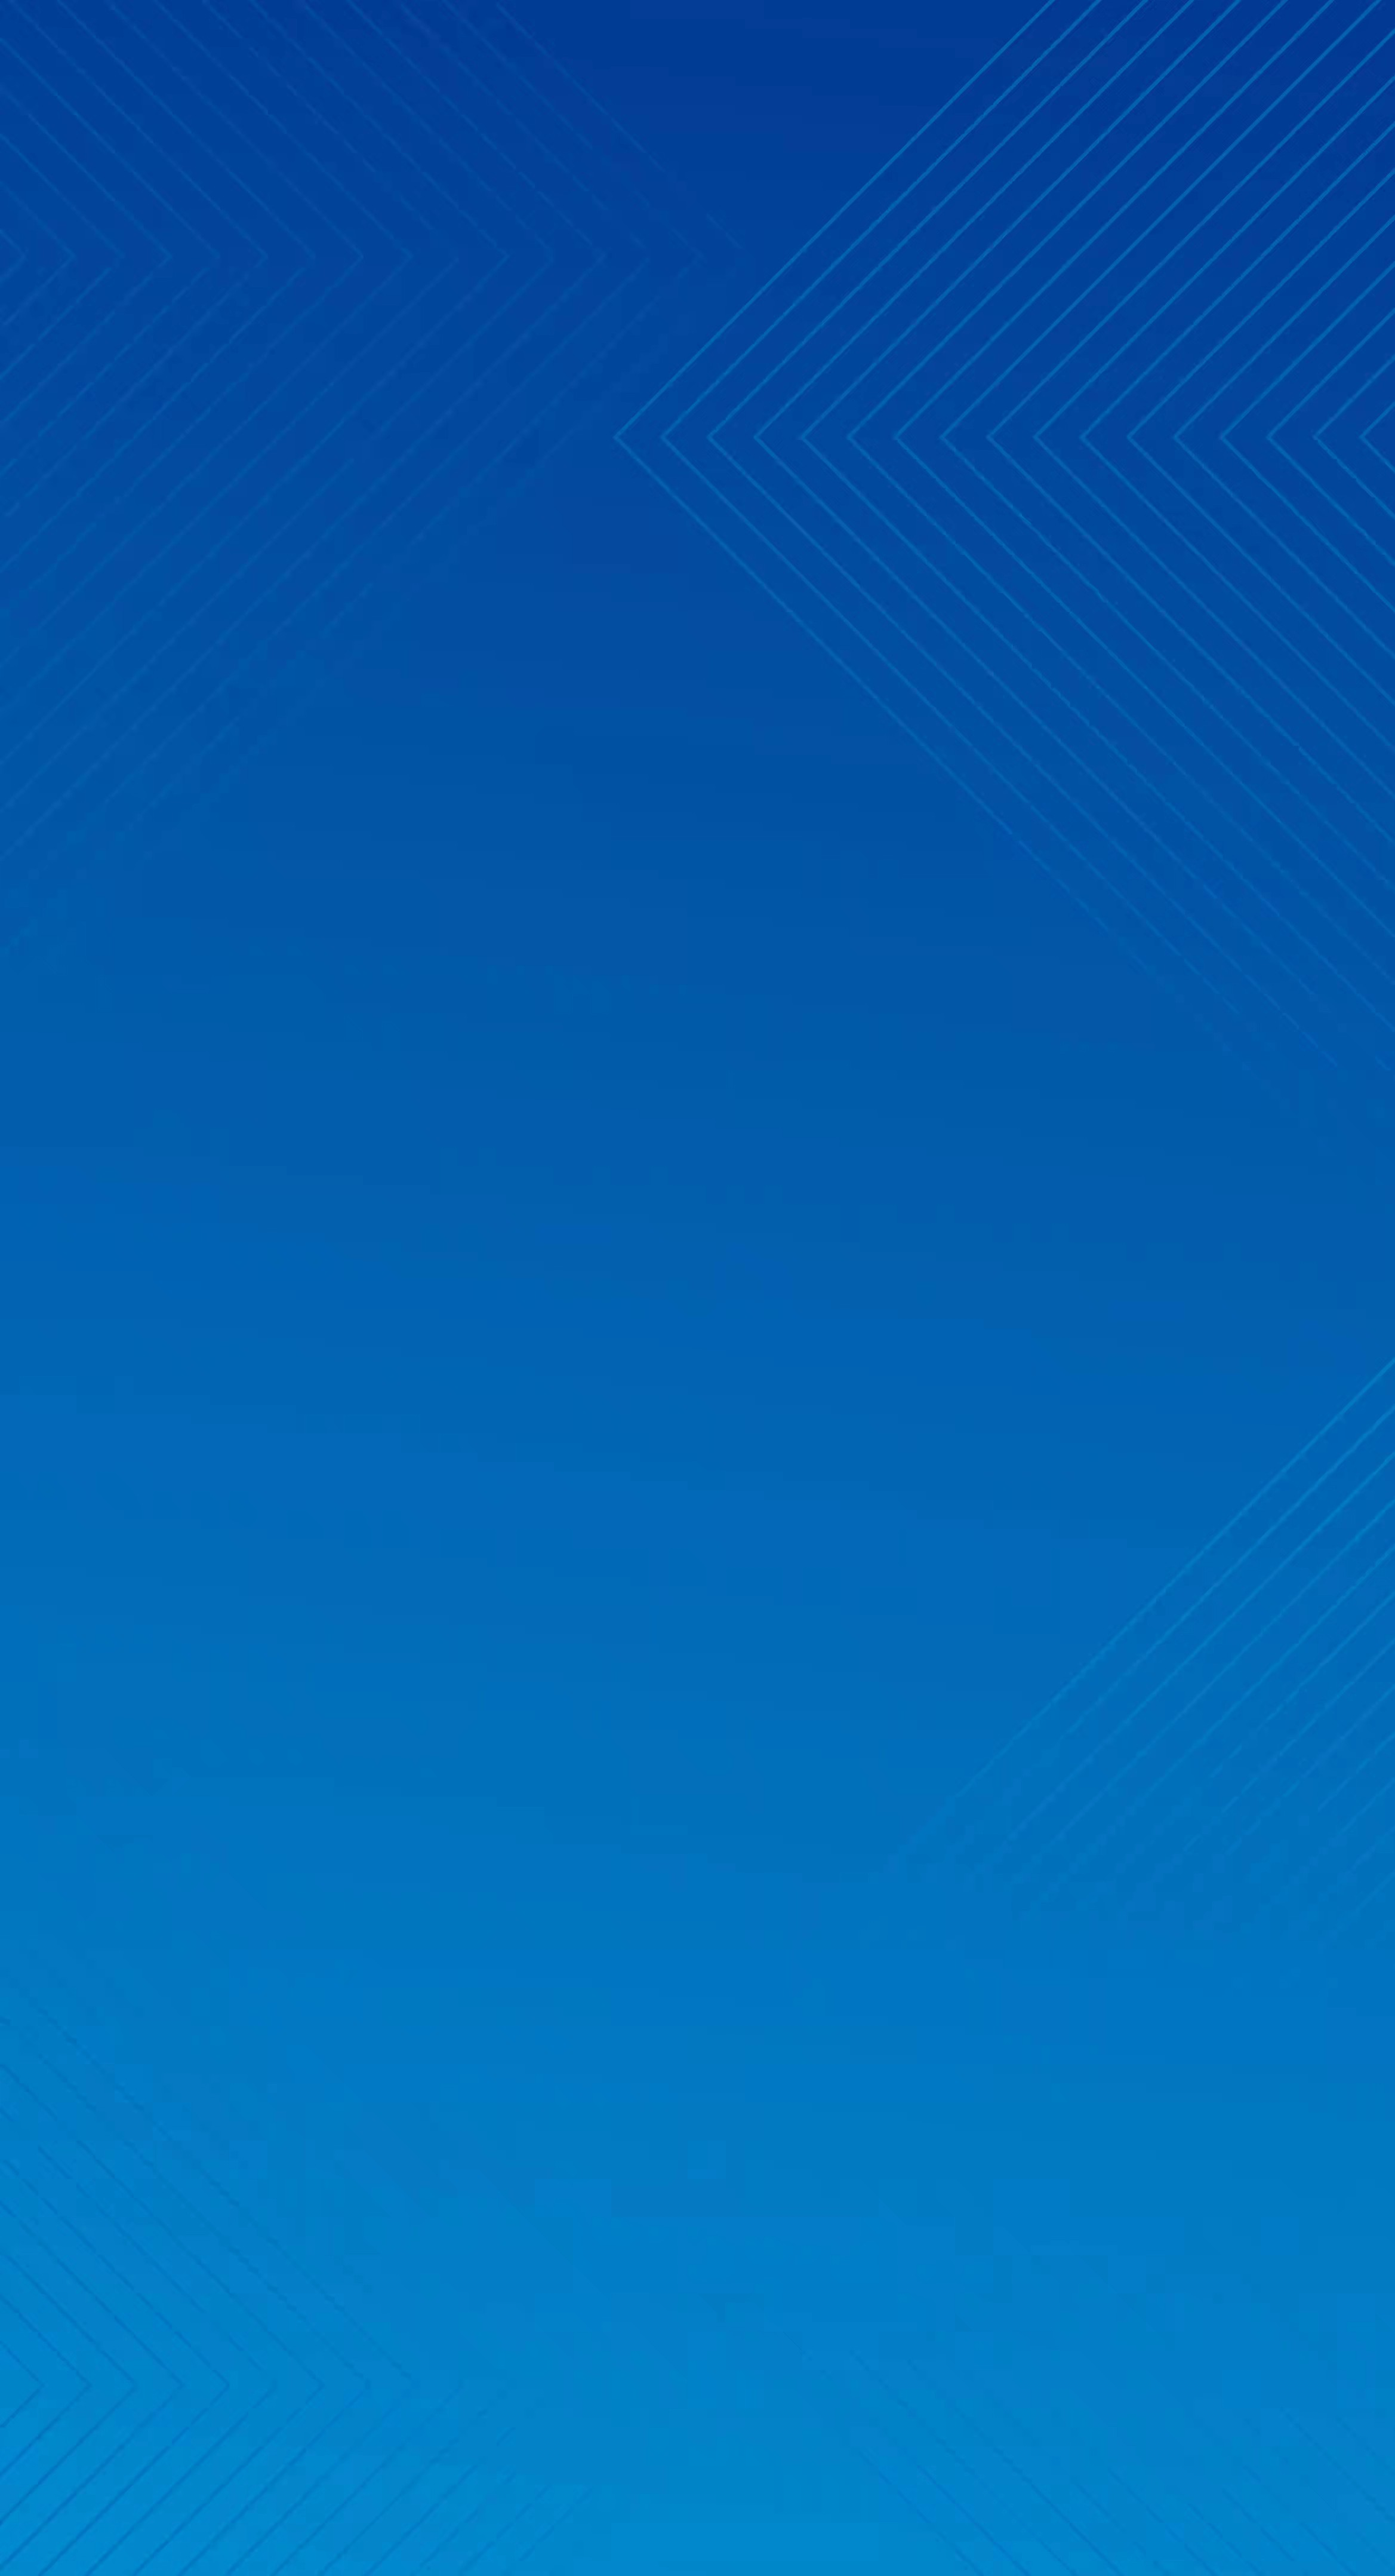
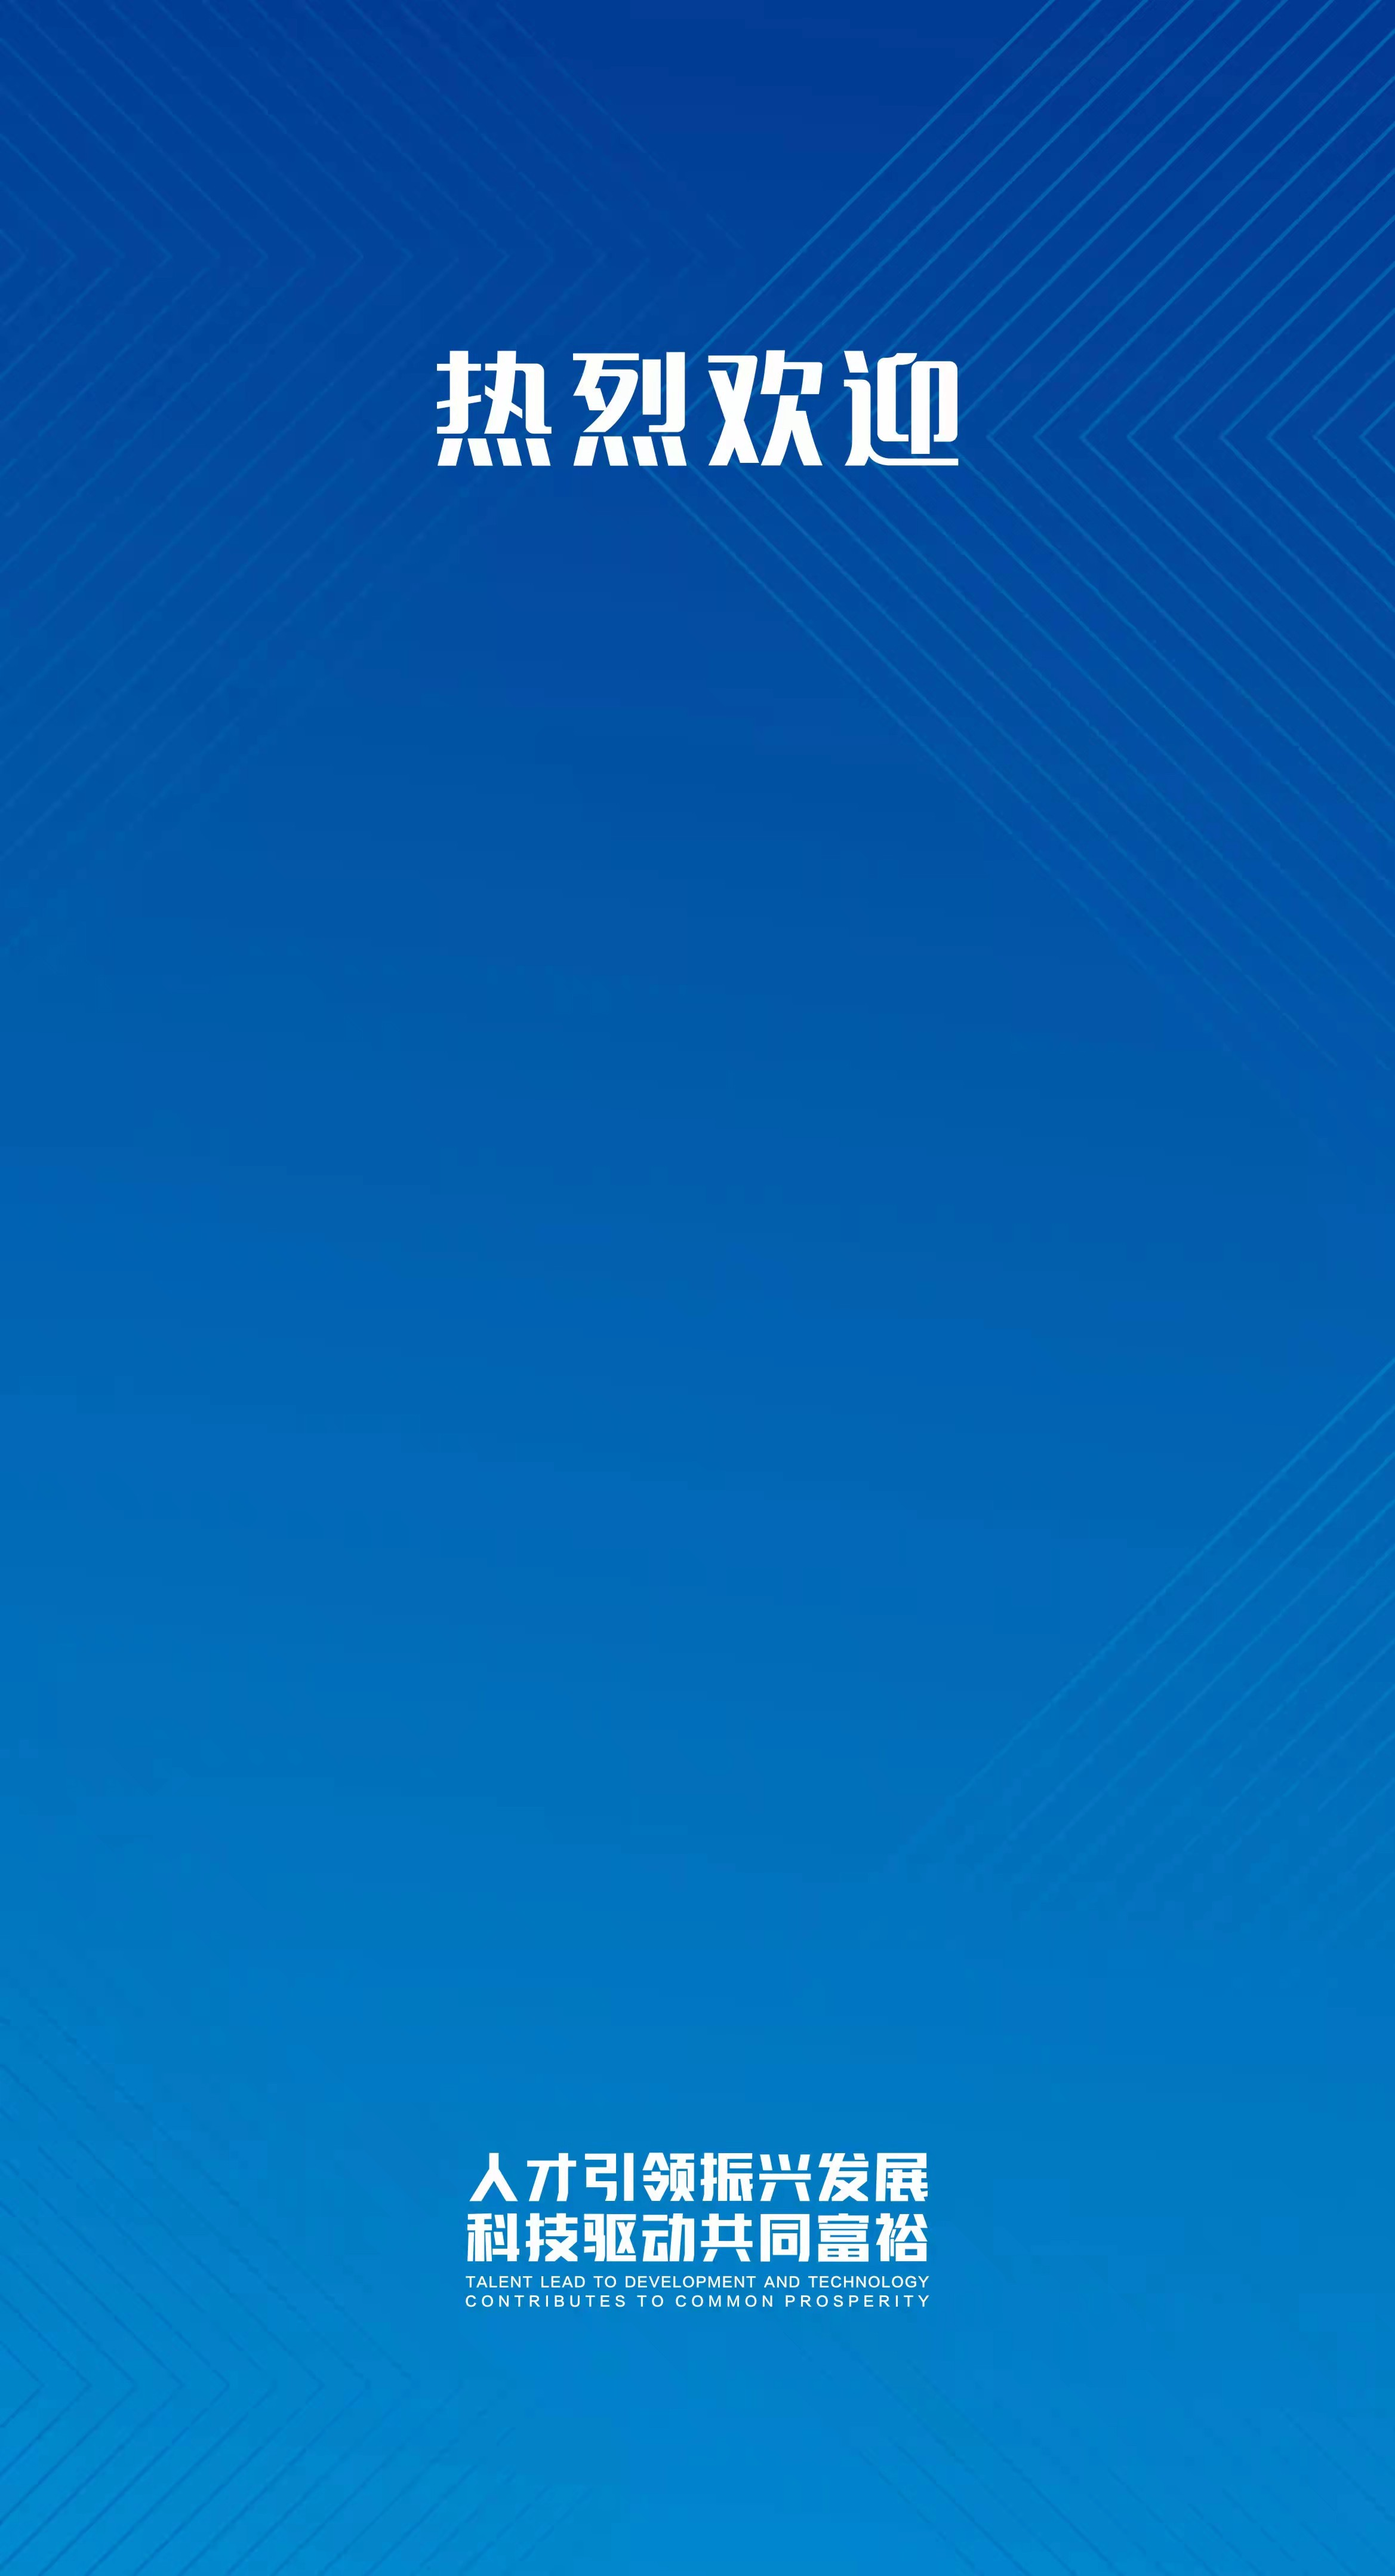
详情修改

Changed region(s): [[0.3124, 0.8389, 0.6872, 0.901], [0.3124, 0.1243, 0.6872, 0.1864]]

diff --git a/css/detail.css b/css/detail.css
@@ -8,18 +8,18 @@
 }
 .name {
   position: absolute;
-  top: 1.6rem;
-  padding-left: .5rem;
+  top: 3.2rem;
+  padding-left: .4rem;
   line-height: .5rem;
   color: white;
-  font-size: 16px;
+  font-size: 14px;
 }
 
 .seat {
   width: 100%;
   color: #fff;
   position: absolute;
-  top: 3rem;
+  top: 4.2rem;
 }
 .seatTitle {
   padding-left: .8rem;
